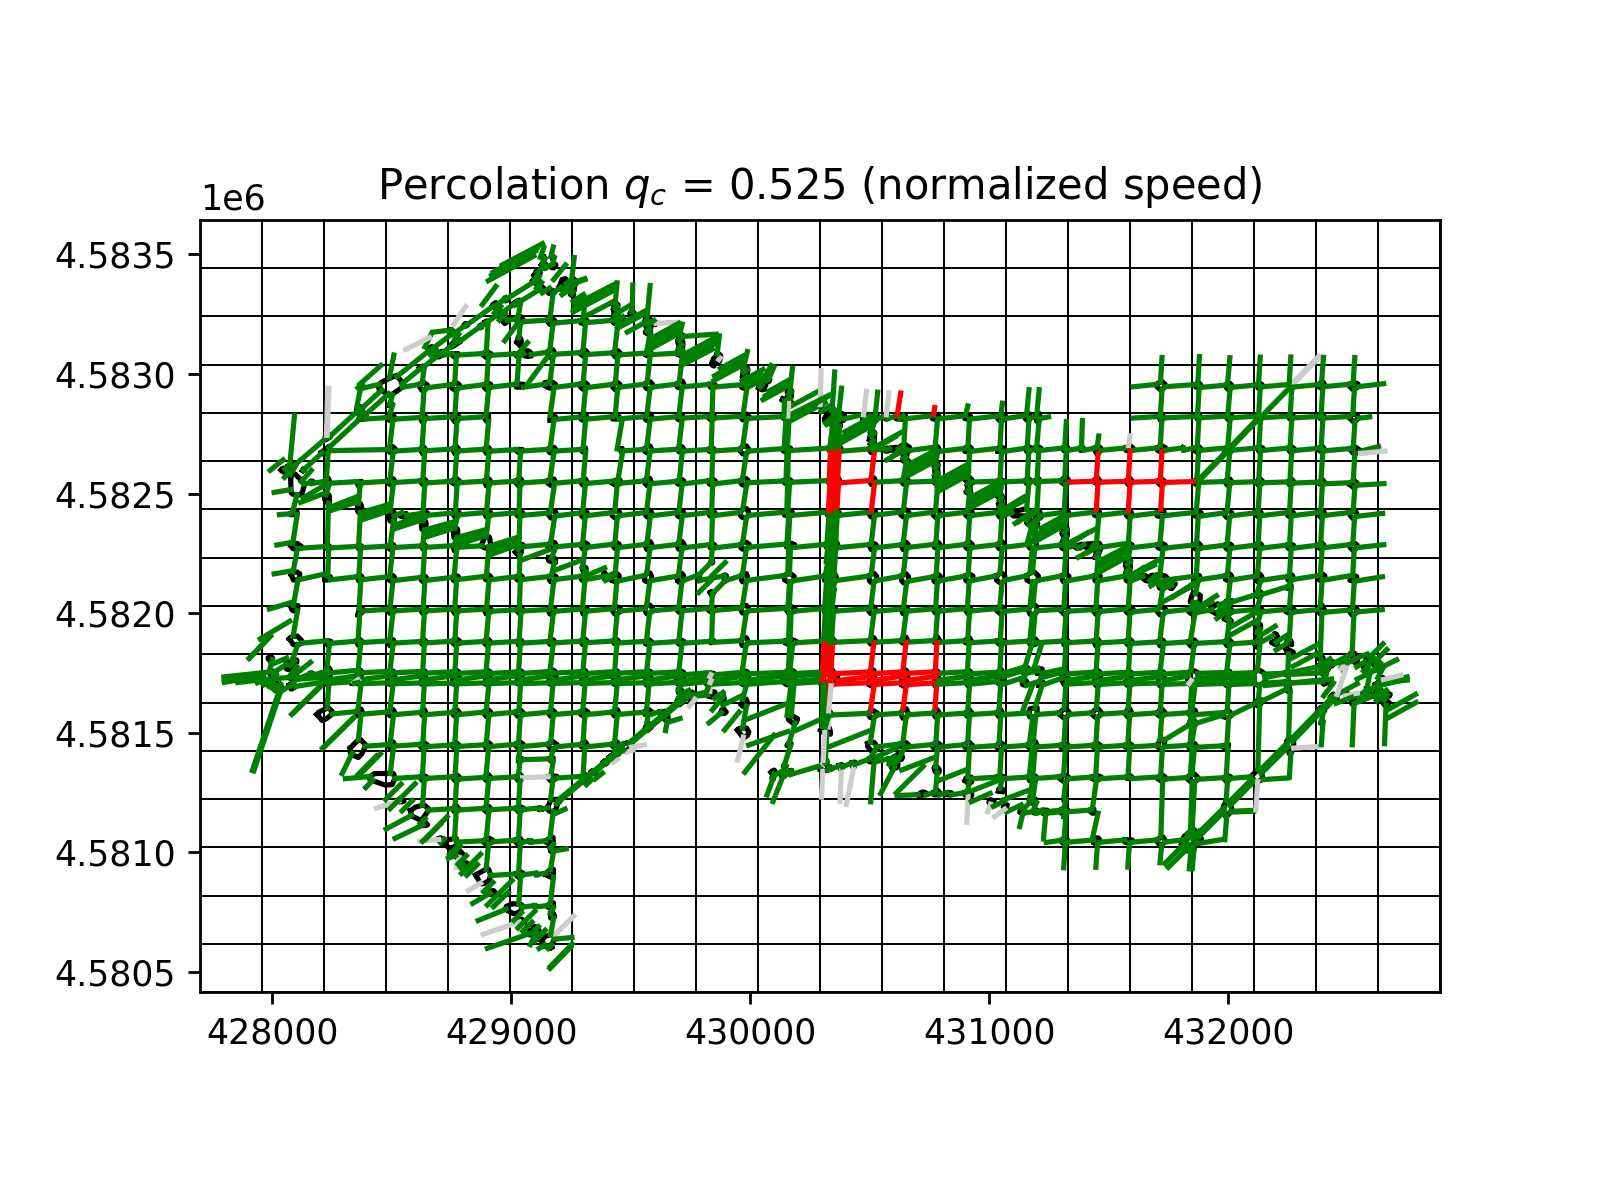
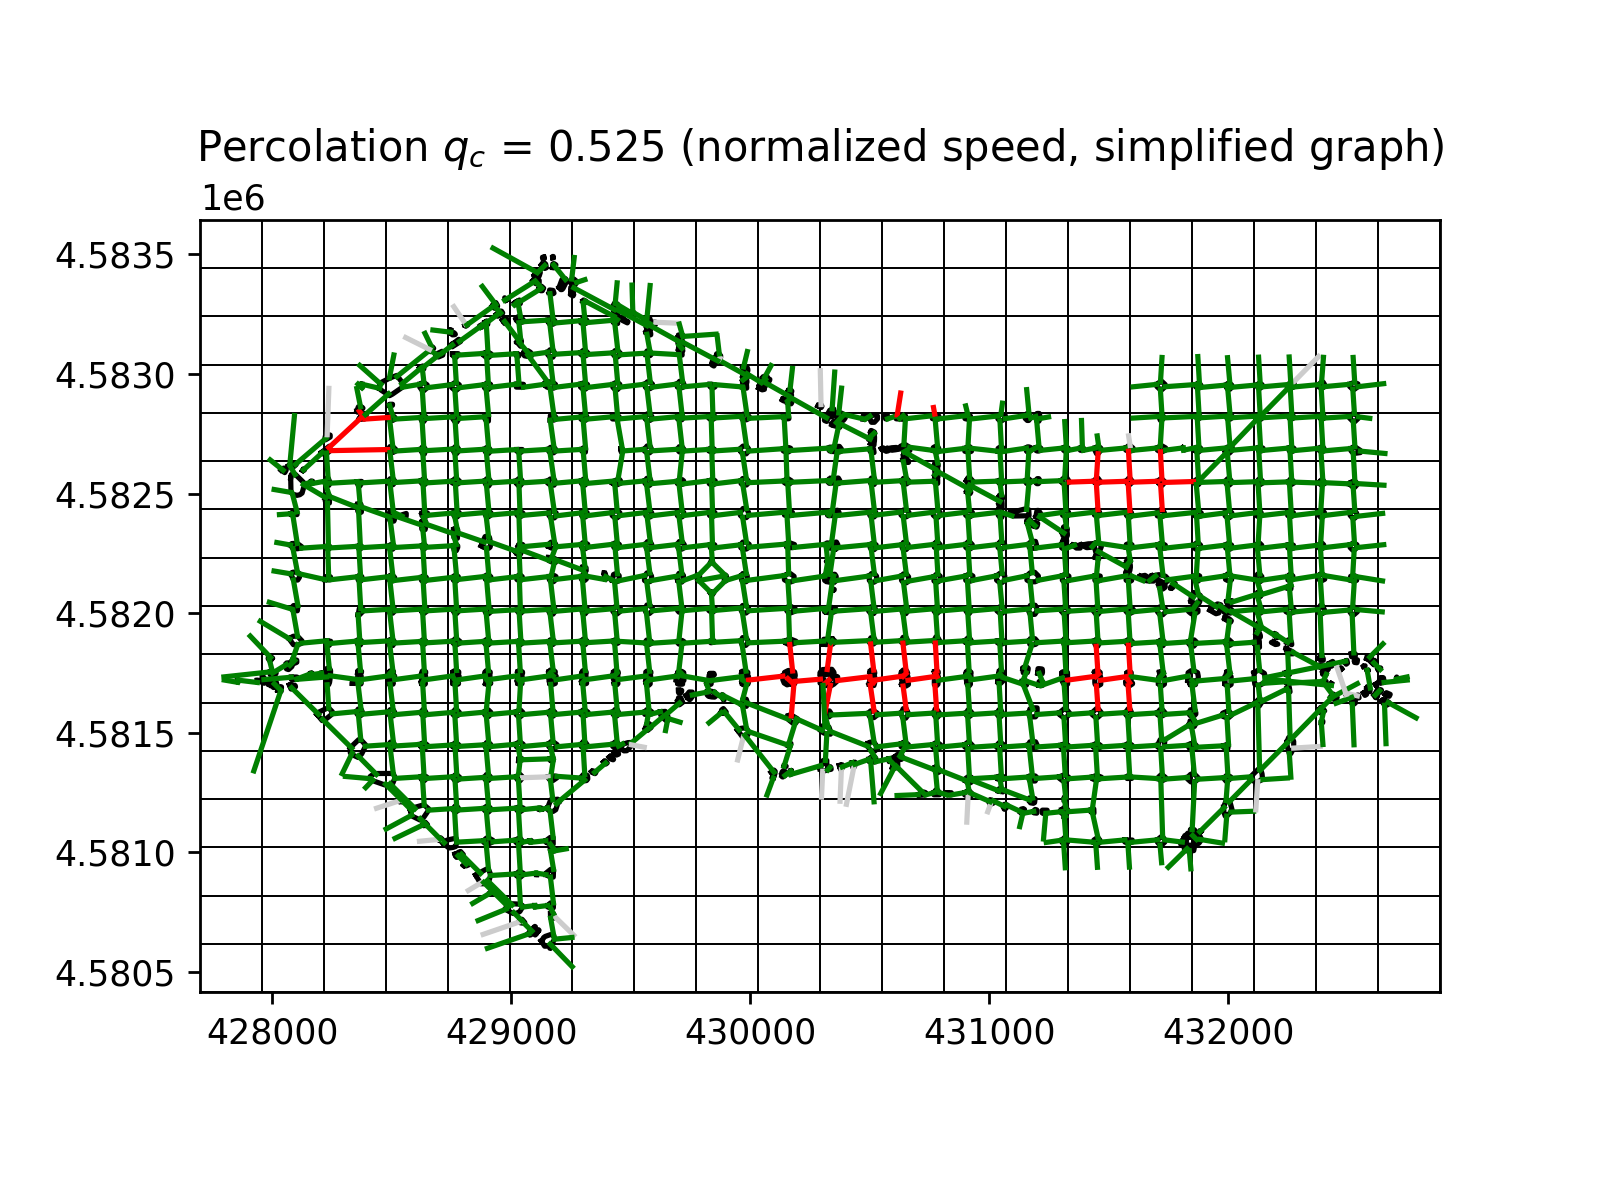
Update maps.py (grid_clust simplified graph) + regenerate grid_perc figure

diff --git a/percolation/maps.py b/percolation/maps.py
@@ -406,7 +406,15 @@ def congestion_map(qc, session=0, timesteps=None):
         print(f"Saved congestion map t={t} ({t*3}min): {n_congested} congested segments")
 
 
-def grid_clust(xdiv=4, ydiv=4, percentile=65, qc=None, session_min=0, session_max=100):
+def grid_clust(
+    xdiv=4,
+    ydiv=4,
+    percentile=65,
+    qc=None,
+    session_min=0,
+    session_max=100,
+    distance_threshold=50.0,
+):
     """
     Cluster links by rectangular grid and colour each cell by its congestion level.
 
@@ -418,17 +426,26 @@ def grid_clust(xdiv=4, ydiv=4, percentile=65, qc=None, session_min=0, session_ma
 
     Parameters
     ----------
-    xdiv, ydiv  : int   – grid divisions along x and y
-    percentile  : int   – raw-speed percentile threshold (ignored when qc is set)
-    qc          : float or None – percolation critical threshold
+    xdiv, ydiv         : int   – grid divisions along x and y
+    percentile         : int   – raw-speed percentile threshold (ignored when qc is set)
+    qc                 : float or None – percolation critical threshold
     session_min, session_max : int – session slice (used in raw-speed mode)
+    distance_threshold : float – segment-grouping radius for the simplified graph
     """
-    links_local = links.copy()
+    from network.simplify import group_segments
+
+    groups = group_segments(distance_threshold)
+    representatives = [
+        max(group, key=lambda idx: links.iloc[idx]["num_lanes"])
+        for group in groups
+    ]
+    links_local = links.iloc[representatives].copy().reset_index(drop=True)
+
     tol   = 100
-    x_min = np.min(links_local["from_x"]) - tol
-    x_max = np.max(links_local["to_x"])   + tol
-    y_min = np.min(links_local["from_y"]) - tol
-    y_max = np.max(links_local["to_y"])   + tol
+    x_min = min(np.min(links["from_x"]), np.min(links["to_x"])) - tol
+    x_max = max(np.max(links["from_x"]), np.max(links["to_x"])) + tol
+    y_min = min(np.min(links["from_y"]), np.min(links["to_y"])) - tol
+    y_max = max(np.max(links["from_y"]), np.max(links["to_y"])) + tol
 
     w  = (x_max - x_min) / xdiv
     h  = (y_max - y_min) / ydiv
@@ -440,8 +457,12 @@ def grid_clust(xdiv=4, ydiv=4, percentile=65, qc=None, session_min=0, session_ma
 
     fig, ax = plt.subplots(dpi=250)
 
-    links_local["cell_x"] = ((links_local["c_x"] - x_min) // w).astype(int)
-    links_local["cell_y"] = ((links_local["c_y"] - y_min) // h).astype(int)
+    links_local["cell_x"] = np.clip(
+        ((links_local["c_x"] - x_min) // w).astype(int), 0, xdiv - 1
+    )
+    links_local["cell_y"] = np.clip(
+        ((links_local["c_y"] - y_min) // h).astype(int), 0, ydiv - 1
+    )
 
     if qc is not None:
         # ── Percolation mode ───────────────────────────────────────────────────
@@ -451,16 +472,31 @@ def grid_clust(xdiv=4, ydiv=4, percentile=65, qc=None, session_min=0, session_ma
         )
         r_mean = np.nanmean(r_profile, axis=0)
 
-        links_local["speed_mean"] = r_mean
-        links_local["nodata"]     = nodata_mask
+        group_speed = []
+        group_nodata = []
+        for group in groups:
+            valid = [
+                r_mean[idx]
+                for idx in group
+                if not nodata_mask[idx] and not np.isnan(r_mean[idx])
+            ]
+            group_speed.append(float(np.mean(valid)) if valid else np.nan)
+            group_nodata.append(len(valid) == 0)
 
-        cell_speed  = (links_local.groupby(["cell_x", "cell_y"])["speed_mean"]
-                       .mean().reset_index(name="cell_avg_speed"))
+        links_local["speed_mean"] = group_speed
+        links_local["nodata"]     = group_nodata
+
+        cell_speed = (
+            links_local.loc[~links_local["nodata"]]
+            .groupby(["cell_x", "cell_y"])["speed_mean"]
+            .mean()
+            .reset_index(name="cell_avg_speed")
+        )
         links_local = links_local.merge(cell_speed, on=["cell_x", "cell_y"], how="left")
 
         links_local["color"] = np.where(links_local["cell_avg_speed"] >= qc, "green", "red")
-        links_local.loc[links_local["nodata"], "color"] = NODATA_COLOR
-        title = f"Percolation $q_c$ = {qc:.3f} (normalized speed)"
+        links_local.loc[links_local["nodata"] | links_local["cell_avg_speed"].isna(), "color"] = NODATA_COLOR
+        title = f"Percolation $q_c$ = {qc:.3f} (normalized speed, simplified graph)"
         fname = f"{folder}/grid_perc_qc{qc:.3f}.png"
 
     else:
@@ -476,28 +512,41 @@ def grid_clust(xdiv=4, ydiv=4, percentile=65, qc=None, session_min=0, session_ma
         speed_profile, nodata_mask = fill_speed_nans(
             mean_over_sessions(speed, min=session_min, max=session_max)
         )
-        print(speed_profile.shape)
 
         avg_speed_per_link = np.nanmean(speed_profile, axis=0)
-        links_local["speed_mean"] = avg_speed_per_link
-        links_local["nodata"]     = nodata_mask
+        group_speed = []
+        group_nodata = []
+        for group in groups:
+            valid = [
+                avg_speed_per_link[idx]
+                for idx in group
+                if not nodata_mask[idx] and not np.isnan(avg_speed_per_link[idx])
+            ]
+            group_speed.append(float(np.mean(valid)) if valid else np.nan)
+            group_nodata.append(len(valid) == 0)
 
-        cell_speed  = (links_local.groupby(["cell_x", "cell_y"])["speed_mean"]
-                       .mean().reset_index(name="cell_avg_speed"))
+        links_local["speed_mean"] = group_speed
+        links_local["nodata"]     = group_nodata
+
+        cell_speed = (
+            links_local.loc[~links_local["nodata"]]
+            .groupby(["cell_x", "cell_y"])["speed_mean"]
+            .mean()
+            .reset_index(name="cell_avg_speed")
+        )
         links_local = links_local.merge(cell_speed, on=["cell_x", "cell_y"], how="left")
 
-        perc = np.nanpercentile(avg_speed_per_link, percentile)
-        print(perc)
+        perc = np.nanpercentile(group_speed, percentile)
 
         links_local["color"] = np.where(links_local["cell_avg_speed"] >= perc, "green", "red")
-        links_local.loc[links_local["nodata"], "color"] = NODATA_COLOR
-        title = f"{percentile}th percentile : Speed = {perc:.2f} m/s"
+        links_local.loc[links_local["nodata"] | links_local["cell_avg_speed"].isna(), "color"] = NODATA_COLOR
+        title = f"{percentile}th percentile : Speed = {perc:.2f} m/s (simplified graph)"
         fname = f"{folder}/grid{percentile}.png"
 
     # ── Draw links ─────────────────────────────────────────────────────────────
     for _, row in links_local.iterrows():
-        ax.plot([row["from_x"], row["to_x"]], [row["from_y"], row["to_y"]],
-                color=row["color"])
+        x, y = sublink(row)
+        ax.plot(x, y, color=row["color"])
 
     # ── Draw grid cells ────────────────────────────────────────────────────────
     for x in xs:
